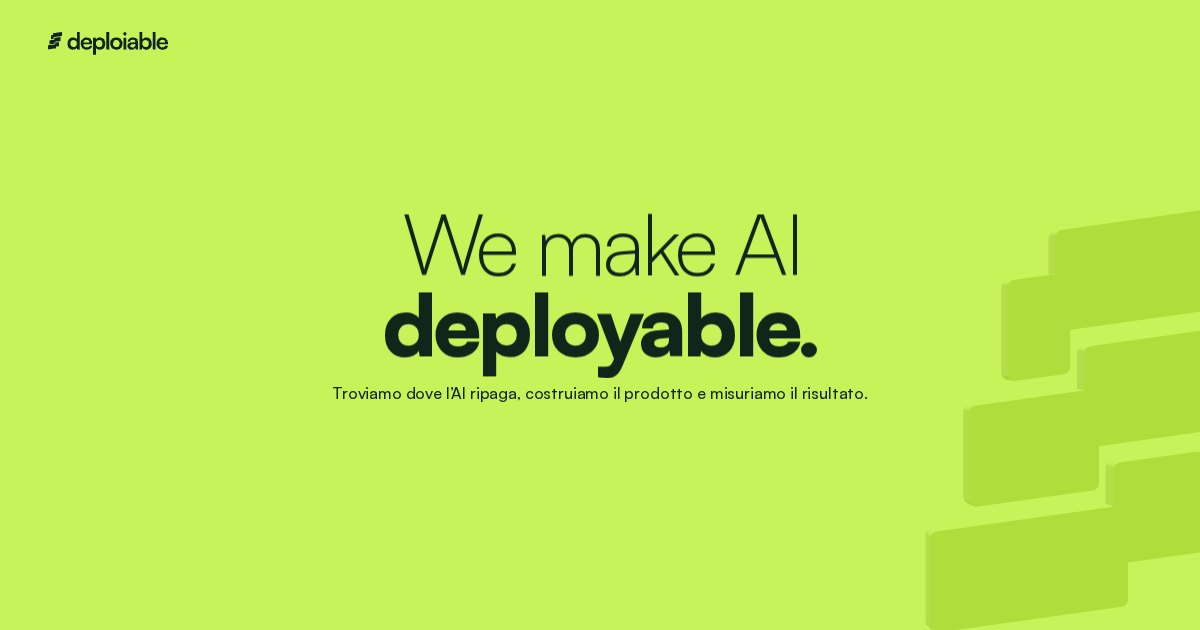
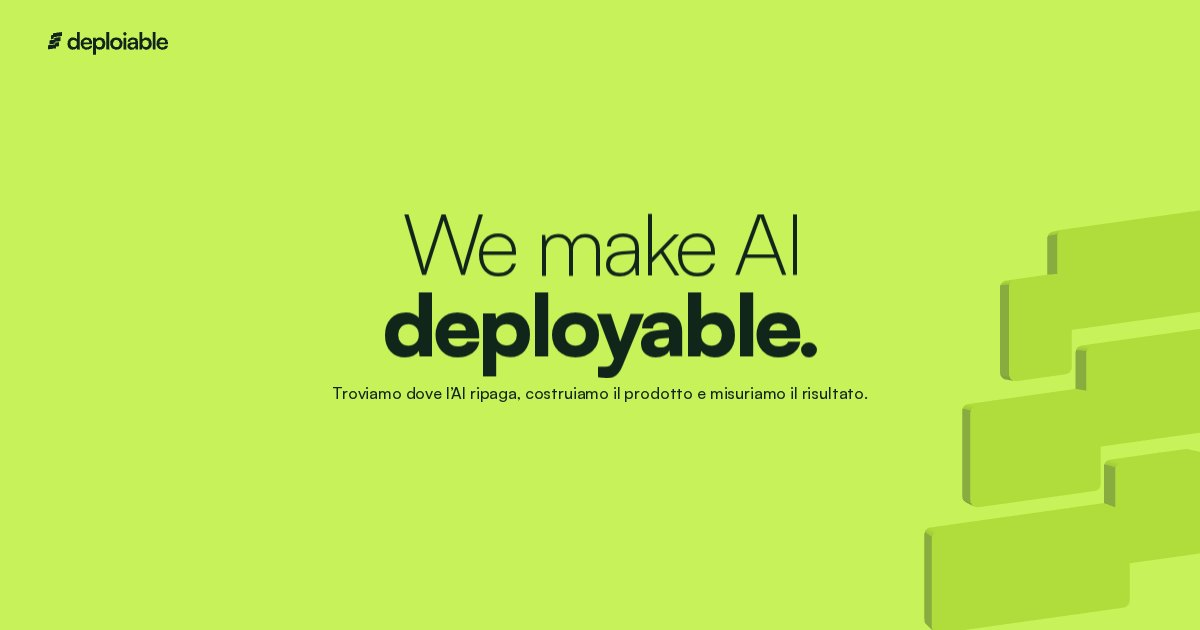
Supergrafica: ombreggiatura delle pareti più evidente e regolare
Pareti in Lime Deep scurito verso Moss (prima quasi uguali al fondo, quindi a tratti invisibili) e rilievo più
profondo: il 3D si legge allo stesso modo su ogni barra. Faccia frontale invariata (Lime Deep esatto).

Claude-Session: https://claude.ai/code/session_01PeA7XYbHTW5WLG5P8a7u88

diff --git a/site/src/config/brand.ts b/site/src/config/brand.ts
@@ -60,19 +60,20 @@ export const PALETTES: Record<PaletteName, Palette> = {
 // Supergrafica tono su tono (brand book, 05 · Elementi grafici): il simbolo ingrandito dietro ai contenuti.
 // Lime Deep su Lime ("texture leggera"), Pine su Forest. Il contrasto del testo non cambia.
 export const TONE_PALETTES: Record<PaletteName, Palette> = {
-  // Pareti solo nella famiglia del Lime, con poca luce: il rilievo si legge come carta incisa, non come muro.
+  // Pareti in ombra decisa (Lime Deep verso Moss): il rilievo si legge chiaro e regolare su ogni barra,
+  // la faccia frontale resta Lime Deep esatto.
   lime: {
     background: COLORS.lime,
     front: COLORS.limeDeep,
-    top: COLORS.lime,
-    bottom: COLORS.limeDeep,
-    side: [COLORS.limeDeep, COLORS.lime, 0.5],
-    back: [COLORS.limeDeep, COLORS.lime, 0.3],
+    top: COLORS.limeDeep,
+    bottom: '#8EB545', // Lime Deep scurito verso Moss (35 %)
+    side: [COLORS.limeDeep, COLORS.moss, 0.38],
+    back: [COLORS.limeDeep, COLORS.moss, 0.3],
     rim: COLORS.lime,
     rimAmount: 0,
     cap: COLORS.lime,
-    ambient: 0.9,
-    diffuse: 0.16,
+    ambient: 0.82,
+    diffuse: 0.22,
   },
   forest: {
     background: COLORS.forest,

diff --git a/site/src/gl/backdrop.ts b/site/src/gl/backdrop.ts
@@ -91,7 +91,7 @@ export class Backdrop {
     this.group.position.set((cx - width / 2) * k, (height / 2 - cy) * k, 0);
     this.group.rotation.set(s.bgRx, s.bgRy, 0);
     // più sottile del logo: in grande lo spessore pieno diventerebbe un muro, qui deve restare una texture
-    this.group.scale.set(g || 1e-4, g || 1e-4, 0.3 * (g || 1e-4));
+    this.group.scale.set(g || 1e-4, g || 1e-4, 0.42 * (g || 1e-4));
 
     // Le barre entrano dal bordo destro lungo l'inclinazione di 8°; nel ciclo scivolano in avanti e tornano.
     const away = (width * k * 1.2) / (g || 1) + SYMBOL_W;
